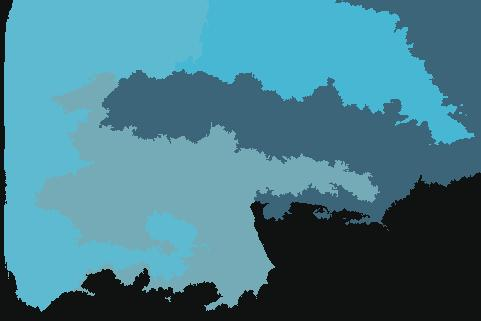
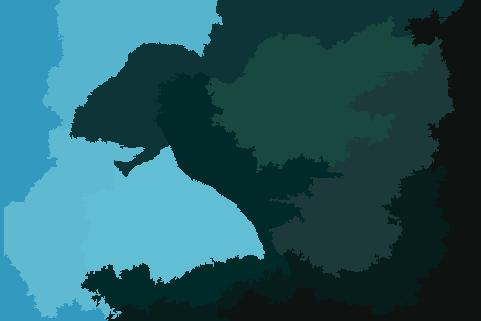
Sorting algorithm now actually sorts

diff --git a/task2/src/Main.java b/task2/src/Main.java
@@ -20,7 +20,7 @@ public class Main {
          */
         String path = "1";
         int numCentroids = 10;
-        int numPopulations = 10;
+        int numPopulations = 1;
 
 
         BufferedImage img = readImage(path);
@@ -52,7 +52,7 @@ public class Main {
     static BufferedImage readImage(String path) {
         BufferedImage img = null;
         try {
-            img = ImageIO.read(new File(String.format("TestImages/%s/Test image.jpg", path)));
+            img = ImageIO.read(new File(String.format("/Users/agnetedjupvik/Desktop/Skolearbeid/8. semester/Bio-AI/bioAI/task2/src/TestImages/3/Test image.jpg", path)));
 
         } catch (IOException e) {
             e.printStackTrace();
@@ -61,7 +61,7 @@ public class Main {
     }
 
     static void writeImage(String path, BufferedImage img) {
-        File outputfile = new File("OutFiles/" + path + ".jpg");
+        File outputfile = new File("/Users/agnetedjupvik/Desktop/Skolearbeid/8. semester/Bio-AI/bioAI/task2/src/OutFiles/3.jpg");
         try {
             ImageIO.write(img, "jpg", outputfile);
         } catch (IOException e) {

diff --git a/task2/src/Population.java b/task2/src/Population.java
@@ -36,7 +36,7 @@ public class Population {
             while(runMore) {
                 runMore = false;
                 for (int j = 0; j < searches.size(); j++) {
-                    if(searches.get(i).runOneStep(closedList, img, centroids.get(i), nodes)){
+                    if(searches.get(j).runOneStep(closedList, img, centroids.get(j), nodes)){
                         runMore = true;
                     }
                 }
@@ -72,10 +72,7 @@ public class Population {
     }
 
     public boolean isDominated(Individual i, Individual o){
-        System.out.println("i is " + i.getEdgeValue() + "and o is " + o.getEdgeValue());
-
         if(i.getEdgeValue() > o.getEdgeValue() && i.getOverallDeviation() > o.getOverallDeviation()){
-            System.out.println("i is dominated by o");
             return true;
         }
         return false;

diff --git a/task2/src/Individual.java b/task2/src/Individual.java
@@ -61,7 +61,6 @@ public class Individual implements Comparable<Individual>{
         for(Node node : centroid.getcurrentlyAssignedNodes()){
             for(Node neighbour : node.getNeighbours()){
                 if(node.getBelongsToCentroid().getHash().equals(neighbour.getBelongsToCentroid().getHash())){
-                    System.out.println(node.getBelongsToCentroid().getHash() + "-------" + neighbour.getBelongsToCentroid().getHash());
                     continue;
                 }
                 //node.setColor(Color.BLACK);
@@ -87,7 +86,6 @@ public class Individual implements Comparable<Individual>{
 
 
     public int compareTo(Individual o) {
-        System.out.println("Individual i has deviation" + this.getRank() + "and o has deviation" + o.getRank());
         return this.getRank() - o.getRank();
     }
 
